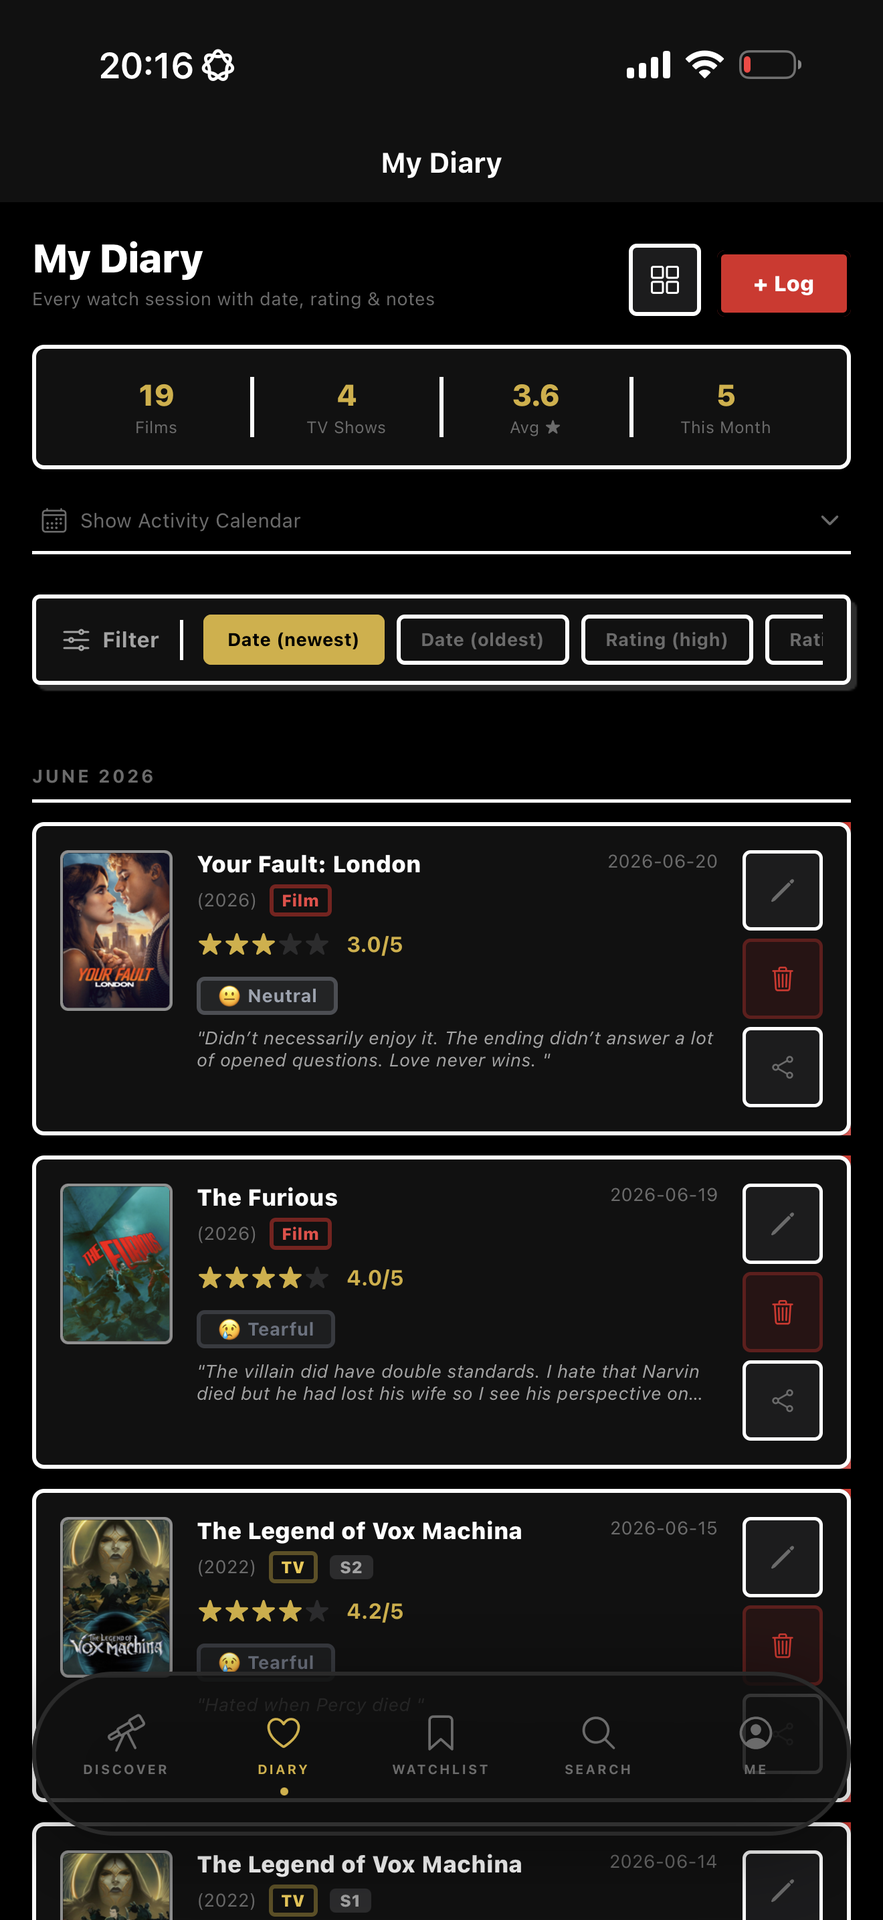
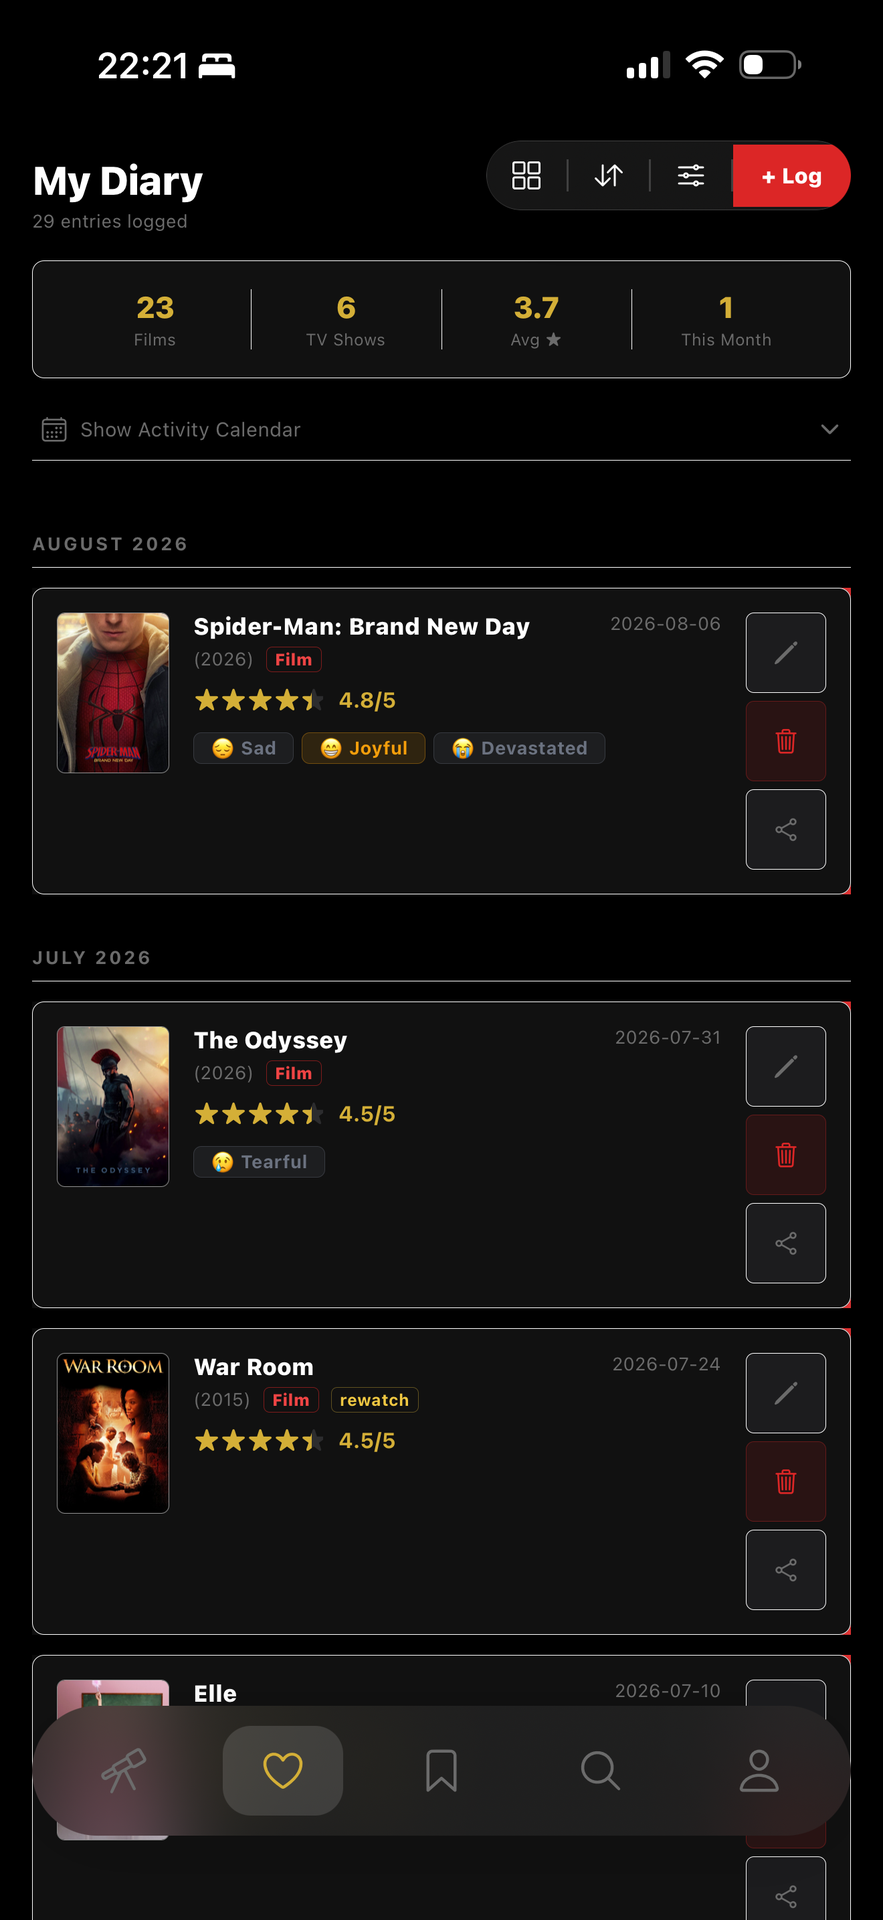
Rewrite ReelFeel and Thyve from the shipping apps
Both entries were written from their repos, and both repos are behind
what actually runs. Screenshots of the current builds show a different
story on each, so the copy and the card images now come from the apps.

Thyve is far past the May 2026 repo state. It is dark sage on near-black
rather than terracotta on paper; Apple Health is connected rather than
mocked; PTU doses persist across days with a running adherence count;
the thyroid panel tracks TSI rather than TRAb; Move recommends against
cycle phase history; and Food carries Ghanaian staples. The entry no
longer describes it as a wireframe with stubbed storage, because it
isn't one.

ReelFeel has shipped things its own roadmap still lists as upcoming:
recommendations now explain themselves ("Loved: The Odyssey"), and the
profile carries a logging streak. The copy now leads with What Moves
You — the ranked emotion breakdown across a user's diary — which is the
clearest statement of what separates this from a watch log.

Card images replaced with real screenshots: ReelFeel's diary, showing
entries with their emotion tags, and Thyve's Today tab.

diff --git a/src/data/portfolioProjects.ts b/src/data/portfolioProjects.ts
@@ -767,26 +767,28 @@ The app features a clean, minimal interface with theme customization, dark mode 
     slug: "reelfeel",
     title: "ReelFeel",
     description:
-      "A film and TV diary that logs not just what you watched, but how it made you feel. Live on the App Store.",
+      "A film and TV diary that logs not just what you watched, but how it made you feel — then shows you the pattern. Live on the App Store.",
     fullDescription: `Letterboxd tells you what you watched. ReelFeel asks how it landed.
 
-Every diary entry pairs the usual — date, 0–5 stars, a written review, a rewatch flag — with an emotion tag drawn from 35 curated feelings across eight categories: Happy, Sad, Neutral, Surprised, Interested, Afraid, Disgusted, Angry. Over time that turns a watch history into an emotional record you can actually read back.
+Every diary entry pairs the usual — date, 0–5 stars, a written review, a rewatch flag — with emotion tags drawn from 35 curated feelings across eight categories: Happy, Sad, Neutral, Surprised, Interested, Afraid, Disgusted, Angry.
 
-What it does:
-- Diary and Library: every film and TV episode you have logged, filterable by type, sortable by date or rating
-- Watchlist: save a title for later; it clears itself the moment you log the watch
-- Search and media detail: full-text TMDB search, then poster, backdrop, cast, genres, runtime, TMDB rating, streaming providers, and a "Buy Tickets" link for anything currently in theatres
-- For You: a recommendation feed weighted by your highest-rated titles
-- Insights: total films, TV shows, average rating, and total watch time
+The payoff is on the profile. "What Moves You" ranks the emotions felt most across the diary, so a year of watching resolves into something you can read back: mostly Neutral, often Tearful, In love four times. That is the thesis of the app in one card — a watch history is an emotional record, and nobody was showing you yours.
 
-Built as an Expo + React Native app on Supabase, with Row Level Security so a user can only ever read and write their own rows. TMDB supplies the film and TV metadata, cached locally to keep the app quick. reelfeel.me is the marketing site — deliberately no app functionality on the web; the product is the phone.
+Five tabs:
+- Discover: a hero carousel, genre filters, and rails for Now Playing and Trending This Week
+- Diary: every session logged, with an activity calendar, a per-entry share sheet, and running stats — films, shows, average rating, this month
+- Watchlist: saved titles with unreleased ones flagged as coming soon, cleared automatically once a watch is logged
+- Search: full-text TMDB search across films and TV, plus recommendations that say why they are there — "Loved: The Odyssey" — rather than presenting a black box
+- Profile: totals and watch time, a logging streak, library and diary collections, and light, dark or system appearance
 
-Shipped through EAS Build and TestFlight to the App Store, currently on build 15.`,
+Built in Expo and React Native on Supabase, with Row Level Security so a user can only ever read and write their own rows. TMDB supplies the film and TV metadata. reelfeel.me is the marketing site — deliberately no app functionality on the web; the product is the phone.
+
+Shipped through EAS Build and TestFlight to the App Store.`,
     category: ["Product", "Consumer Research"],
     image: reelfeelImg,
     externalLink: "https://apps.apple.com/app/id6767443984",
     icon: Clapperboard,
-    tools: ["React Native", "Expo Router", "Supabase", "PostgreSQL", "Row Level Security", "TMDB API", "React 19", "Vite", "Tailwind CSS", "EAS Build", "TestFlight", "App Store"],
+    tools: ["React Native", "Expo Router", "Supabase", "PostgreSQL", "Row Level Security", "TMDB API", "EAS Build", "TestFlight", "App Store"],
     year: "2026",
   },
   {
@@ -794,27 +796,27 @@ Shipped through EAS Build and TestFlight to the App Store, currently on build 15
     slug: "thyve",
     title: "Thyve",
     description:
-      "An iOS health companion for women managing Graves disease on PTU. Labs, food, movement, cycle, and an AI that already knows your numbers. In active build.",
-    fullDescription: `Thyve is built for people living with Graves disease and hyperthyroidism on PTU — by someone who lives with it. The design brief was to make a chronic condition legible on a phone screen, without the clinical coldness of a patient portal.
+      "An iOS health companion for women managing Graves disease on PTU. Readiness, labs, food, movement and cycle in one place, with an AI that already knows your numbers.",
+    fullDescription: `Thyve is built for people living with Graves disease and hyperthyroidism on PTU — by someone who lives with it. The brief was to make a chronic condition legible on a phone screen, without the clinical coldness of a patient portal.
 
-Six tabs, 23 screens:
-- Today: a daily "Graves weather" read — resting heart rate, HRV, sleep and cycle day pulled from Apple Health — plus a readiness score and a journal
-- Labs: TSH, Free T4, Free T3, TRAb and WBC on range bars and trend sparklines, with the next draw date and a plain-English explainer for each marker
-- Food: iodine and selenium tracking, a thyroid rating on food search, and recipes
-- Move: a 28-day heatmap and readiness-matched workouts with heart-rate zones
-- Cycle: phase calendar, daily log, and a TSH correlation chart — because the thyroid and the cycle do not behave independently
-- Ask: an AI companion that opens with the user's own context already loaded — "TSH 0.04 · FT4 1.9 · PTU 50mg×3 · Graves disease · Day 22 cycle" — so there is no re-explaining the condition every time
+Six tabs:
+- Today: a readiness score built from Apple Health — resting heart rate, heart rate, HRV and sleep — sitting over the latest labs, the next draw date, the next appointment, and the day's PTU dose with a running adherence count
+- Labs: a plain-English headline on the current panel, then TSH, Free T4, Total T3 and TSI on reference-range bars, each dated entry expandable into what the number actually means
+- Food: iodine and selenium against daily targets tuned for hyperthyroidism, meals logged across breakfast, lunch, dinner and snack, and a favourites shelf carrying Ghanaian staples — tilapia as Nkran fish, alongside salmon and eggs
+- Move: a month heatmap keyed by session intensity, with recommendations drawn from cycle phase history rather than a generic plan
+- Cycle: phase calendar across menstrual, follicular, ovulation and luteal, daily logging, and predictions for the next period and fertile window
+- Ask: a chat that opens with the user's condition and medication already in context, with suggested openers on the questions people actually bring — how to tell whether Graves is moving toward remission, what sets off a flare
 
-The privacy model is the architecture. There are no Thyve servers, no accounts and no cloud sync: labs, meals, workouts, cycle entries and journal live in on-device SQLite, and Apple Health is read-only. Only the context blocks a user explicitly enables are sent with an AI question, and the Settings screen lets them switch each block off.
+Movement and cycle are wired together rather than sitting in separate tabs: the workout suggested on a given day comes from where the user is in their cycle, which is a connection a general fitness app has no reason to make and someone managing a thyroid condition needs.
 
-The visual language is deliberately hand-drawn — terracotta on warm paper, Caveat and Kalam for headings, Courier Prime for figures — so a day of tracking a chronic illness reads like a notebook rather than a chart.
+The interface is dark by default — sage green on near-black, with handwritten type — so that checking labs at 7am reads like a notebook rather than a chart.
 
-Status: in active development. All 23 screens, the design system and the HealthKit permission flow are built; persistent storage and the live AI responses are still ahead. Clinical values follow standard endocrinology references and are not medical advice.`,
+Built in Expo and React Native with HealthKit, and distributed through TestFlight.`,
     category: "Product",
     image: thyveImg,
     externalLink: "#",
     icon: Activity,
-    tools: ["React Native", "Expo SDK 52", "Expo Router", "TypeScript", "HealthKit", "expo-sqlite", "expo-secure-store", "react-native-svg", "Claude API", "EAS Build", "TestFlight", "SwiftUI"],
+    tools: ["React Native", "Expo", "Expo Router", "TypeScript", "HealthKit", "expo-sqlite", "expo-secure-store", "react-native-svg", "Claude API", "EAS Build", "TestFlight"],
     year: "2026",
   },
 ];
